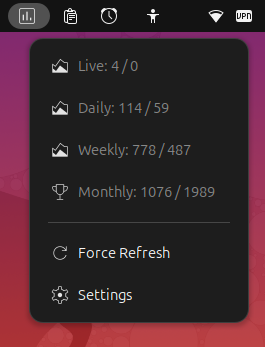
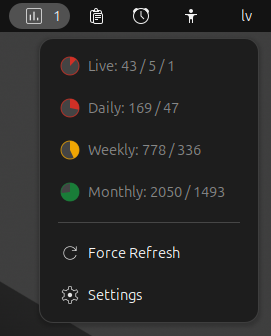
1.0.0 - updates and remove 0 blocking for update after time frame update

diff --git a/lib/dataScheduler.js b/lib/dataScheduler.js
@@ -101,7 +101,7 @@ export class DataScheduler {
             const data = await this._gaClient.fetchStats();
             
             if (data && data.success) {
-                const { live, daily, weekly, monthly, fallback, seed, timeZone } = data;
+                const { live, daily, weekly, monthly, seed, timeZone } = data;
                 if (timeZone) {
                     this._settings.set_string(SETTINGS_KEYS.ANALYTICS_TIMEZONE, timeZone);
                 }
@@ -122,20 +122,12 @@ export class DataScheduler {
                 const resolvedDaily = this._resolveCurrentValue('daily', daily, previousDaily, dailyRollover);
                 const resolvedWeekly = this._resolveCurrentValue('weekly', weekly, previousWeekly, weeklyRollover);
                 const resolvedMonthly = this._resolveCurrentValue('monthly', monthly, previousMonthly, monthlyRollover);
-                let normalizedDaily = resolvedDaily;
-
-                if (live > normalizedDaily) {
-                    this._logger.warn(
-                        `Daily value (${resolvedDaily}) is below live value (${live}); clamping daily to live`
-                    );
-                    normalizedDaily = live;
-                }
 
                 this._updateTodayLivePeak(live, dailyRollover);
                 
                 // Update current stats
                 this._settings.set_int(SETTINGS_KEYS.CURRENT_LIVE, live);
-                this._settings.set_int(SETTINGS_KEYS.CURRENT_DAILY, normalizedDaily);
+                this._settings.set_int(SETTINGS_KEYS.CURRENT_DAILY, resolvedDaily);
                 this._settings.set_int(SETTINGS_KEYS.CURRENT_WEEKLY, resolvedWeekly);
                 this._settings.set_int(SETTINGS_KEYS.CURRENT_MONTHLY, resolvedMonthly);
 
@@ -150,35 +142,23 @@ export class DataScheduler {
                 }
 
                 this._updateLiveRecord(live);
-                this._updatePeriodRecordAndNotify('daily', normalizedDaily, now, analyticsTimeZone);
+                this._updatePeriodRecordAndNotify('daily', resolvedDaily, now, analyticsTimeZone);
                 this._updatePeriodRecordAndNotify('weekly', resolvedWeekly, now, analyticsTimeZone);
                 this._updatePeriodRecordAndNotify('monthly', resolvedMonthly, now, analyticsTimeZone);
 
                 const previousDailyRef = getPreviousPeriodReferenceDateString(now, 'daily', analyticsTimeZone);
-                if (fallback?.daily && this._settings.get_int(SETTINGS_KEYS.RECORD_DAILY) === 0 && normalizedDaily > 0) {
-                    this._settings.set_int(SETTINGS_KEYS.RECORD_DAILY, normalizedDaily);
-                    this._settings.set_string(SETTINGS_KEYS.LAST_RECORD_DAILY, previousDailyRef);
-                }
                 if (seed?.daily !== null && this._settings.get_int(SETTINGS_KEYS.RECORD_DAILY) === 0 && seed.daily > 0) {
                     this._settings.set_int(SETTINGS_KEYS.RECORD_DAILY, seed.daily);
                     this._settings.set_string(SETTINGS_KEYS.LAST_RECORD_DAILY, previousDailyRef);
                     this._logger.info(`Seeded daily record from previous day: ${seed.daily}`);
                 }
                 const previousWeeklyRef = getPreviousPeriodReferenceDateString(now, 'weekly', analyticsTimeZone);
-                if (fallback?.weekly && this._settings.get_int(SETTINGS_KEYS.RECORD_WEEKLY) === 0 && resolvedWeekly > 0) {
-                    this._settings.set_int(SETTINGS_KEYS.RECORD_WEEKLY, resolvedWeekly);
-                    this._settings.set_string(SETTINGS_KEYS.LAST_RECORD_WEEKLY, previousWeeklyRef);
-                }
                 if (seed?.weekly !== null && this._settings.get_int(SETTINGS_KEYS.RECORD_WEEKLY) === 0 && seed.weekly > 0) {
                     this._settings.set_int(SETTINGS_KEYS.RECORD_WEEKLY, seed.weekly);
                     this._settings.set_string(SETTINGS_KEYS.LAST_RECORD_WEEKLY, previousWeeklyRef);
                     this._logger.info(`Seeded weekly record from previous week: ${seed.weekly}`);
                 }
                 const previousMonthlyRef = getPreviousPeriodReferenceDateString(now, 'monthly', analyticsTimeZone);
-                if (fallback?.monthly && this._settings.get_int(SETTINGS_KEYS.RECORD_MONTHLY) === 0 && resolvedMonthly > 0) {
-                    this._settings.set_int(SETTINGS_KEYS.RECORD_MONTHLY, resolvedMonthly);
-                    this._settings.set_string(SETTINGS_KEYS.LAST_RECORD_MONTHLY, previousMonthlyRef);
-                }
                 if (seed?.monthly !== null && this._settings.get_int(SETTINGS_KEYS.RECORD_MONTHLY) === 0 && seed.monthly > 0) {
                     this._settings.set_int(SETTINGS_KEYS.RECORD_MONTHLY, seed.monthly);
                     this._settings.set_string(SETTINGS_KEYS.LAST_RECORD_MONTHLY, previousMonthlyRef);
@@ -188,7 +168,7 @@ export class DataScheduler {
                 // Update last refresh time
                 this._settings.set_string(SETTINGS_KEYS.LAST_UPDATE, new Date().toISOString());
                 
-                this._logger.info(`Data refreshed successfully: L=${live} D=${normalizedDaily} W=${resolvedWeekly} M=${resolvedMonthly}`);
+                this._logger.info(`Data refreshed successfully: L=${live} D=${resolvedDaily} W=${resolvedWeekly} M=${resolvedMonthly}`);
             } else {
                 // Failed to fetch data, keep last known values
                 this._logger.info('Failed to fetch data, keeping last known values');

diff --git a/lib/gaAPI.js b/lib/gaAPI.js
@@ -88,30 +88,11 @@ export class GAClient {
                 liveStats = 0;
             }
 
-            let dailyFallback = false;
-            let weeklyFallback = false;
-            let monthlyFallback = false;
             let seededDailyRecord = null;
             let seededWeeklyRecord = null;
             let seededMonthlyRecord = null;
 
-            // Fetch previous period data if current is 0 (DRY: extracted to helper)
-            if (dailyStats === 0) {
-                dailyStats = await this._fetchPreviousPeriod('daily', propertyId, token, now);
-                dailyFallback = dailyStats !== null;
-            }
-
-            if (weeklyStats === 0) {
-                weeklyStats = await this._fetchPreviousPeriod('weekly', propertyId, token, now);
-                weeklyFallback = weeklyStats !== null;
-            }
-
-            if (monthlyStats === 0) {
-                monthlyStats = await this._fetchPreviousPeriod('monthly', propertyId, token, now);
-                monthlyFallback = monthlyStats !== null;
-            }
-
-            // Seed records if needed (DRY: extracted to helper)
+            // Seed records if needed, without replacing current-period values.
             if (this._settings.get_int(SETTINGS_KEYS.RECORD_DAILY) === 0 && !this._recordSeeded.daily) {
                 this._logger.info('Record daily is 0; fetching previous day to seed record');
                 seededDailyRecord = await this._fetchPreviousPeriod('daily', propertyId, token, now);
@@ -165,12 +146,6 @@ export class GAClient {
                 daily: dailyStats,
                 weekly: weeklyStats,
                 monthly: monthlyStats,
-                fallback: {
-                    daily: dailyFallback,
-                    weekly: weeklyFallback,
-                    monthly: monthlyFallback,
-                }
-                ,
                 seed: {
                     daily: seededDailyRecord,
                     weekly: seededWeeklyRecord,

diff --git a/README.md b/README.md
@@ -4,7 +4,13 @@
 
 A GNOME Shell extension that displays Google Analytics visitor statistics in your panel and notifies you when you break peaks. Track daily, weekly, and monthly visitor counts at a glance.
 
+## Dropdown Menu Example
+
 ![GASP Screenshot](git-images/gasp.png)
+
+# Settings Example
+
+![GASP Screenshot](git-images/gasp-settings.png)
 
 ## Features
 
@@ -119,6 +125,9 @@ On first enable without credentials:
 
 Daily/weekly/monthly lines show: `Period: Peak / Current`  
 Live line shows: `Live: Peak / Today Peak / Latest`
+
+- `Daily Current` comes directly from Google Analytics and can decrease (including `0`)
+- `Today Peak` is the highest live value seen today and resets on daily rollover
 
 - **Trophy icon**: Current value equals or exceeds peak
 - **Pie icon**: Shown while current value is below peak

diff --git a/DEVELOPMENT.md b/DEVELOPMENT.md
@@ -79,7 +79,7 @@
 
 **Record seeding:** If a peak is 0, fetch the previous day/week/month once and set it.
 **Live peak tracking:** Scheduler keeps `today-live-peak` and resets it on daily rollover.
-**Daily safeguard:** If live exceeds fetched daily, daily is clamped to at least live.
+**Daily behavior:** Daily values follow the GA report directly and can decrease (including to 0).
 
 ## Google Analytics API Implementation
 
